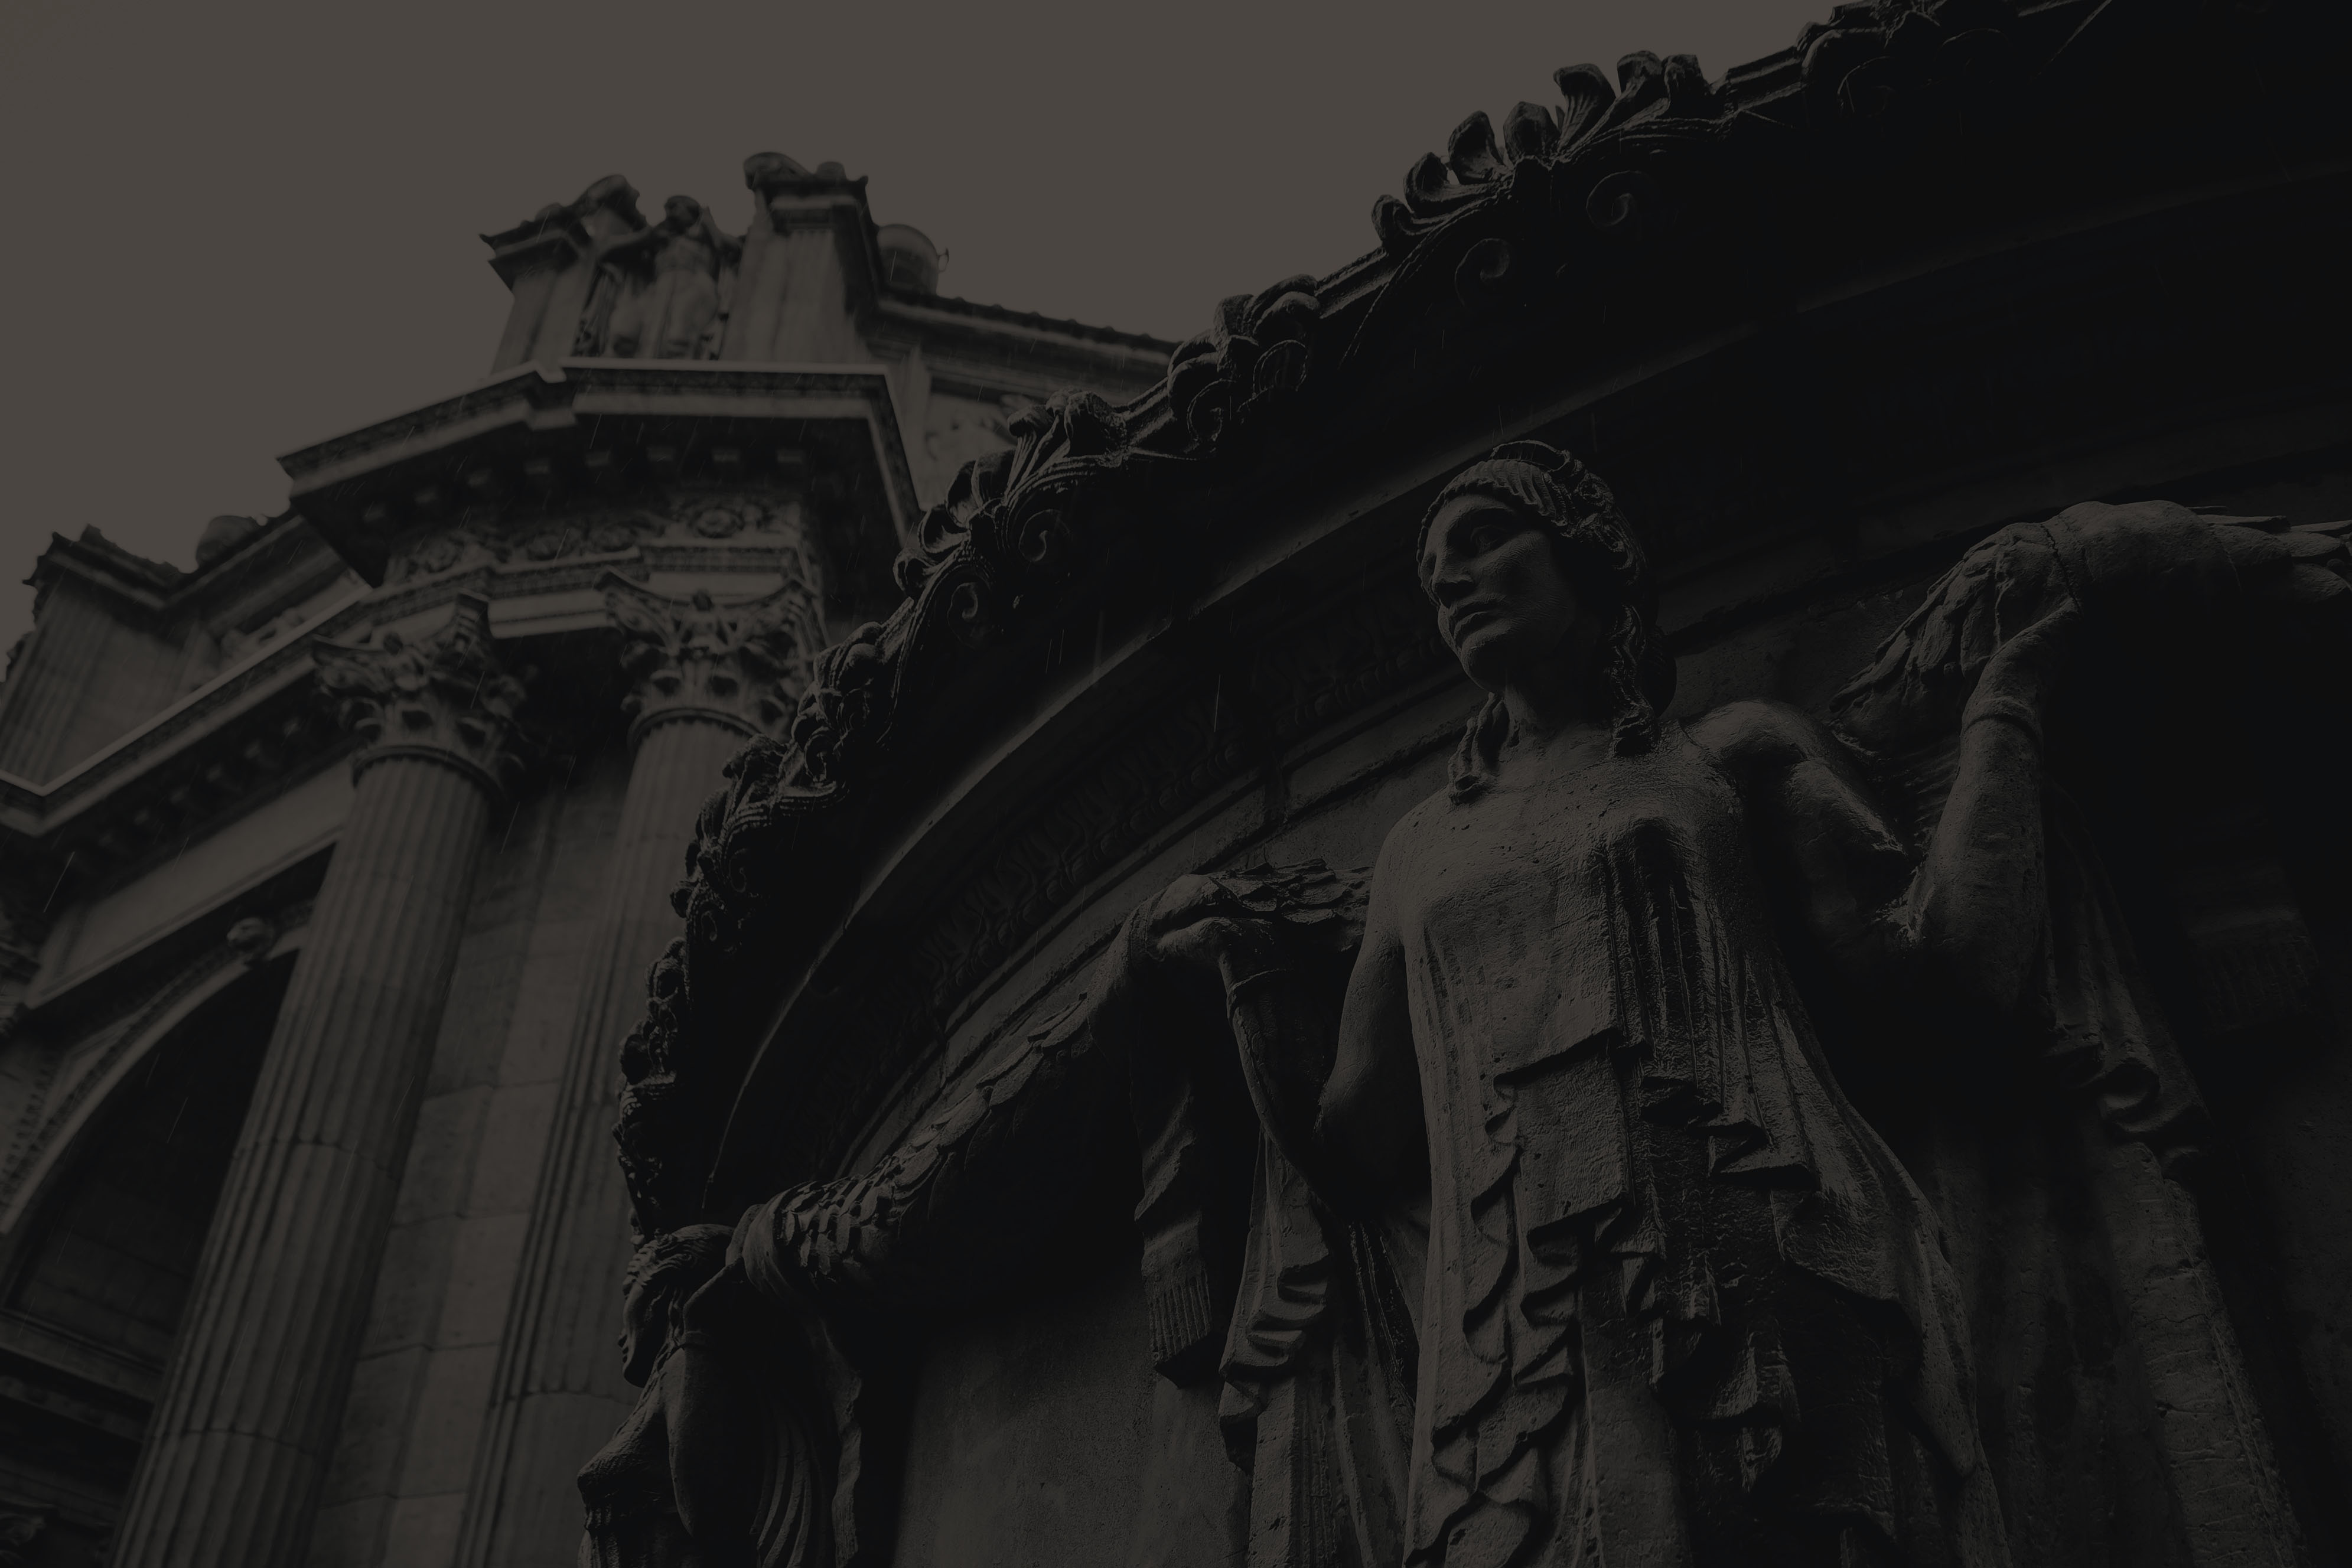
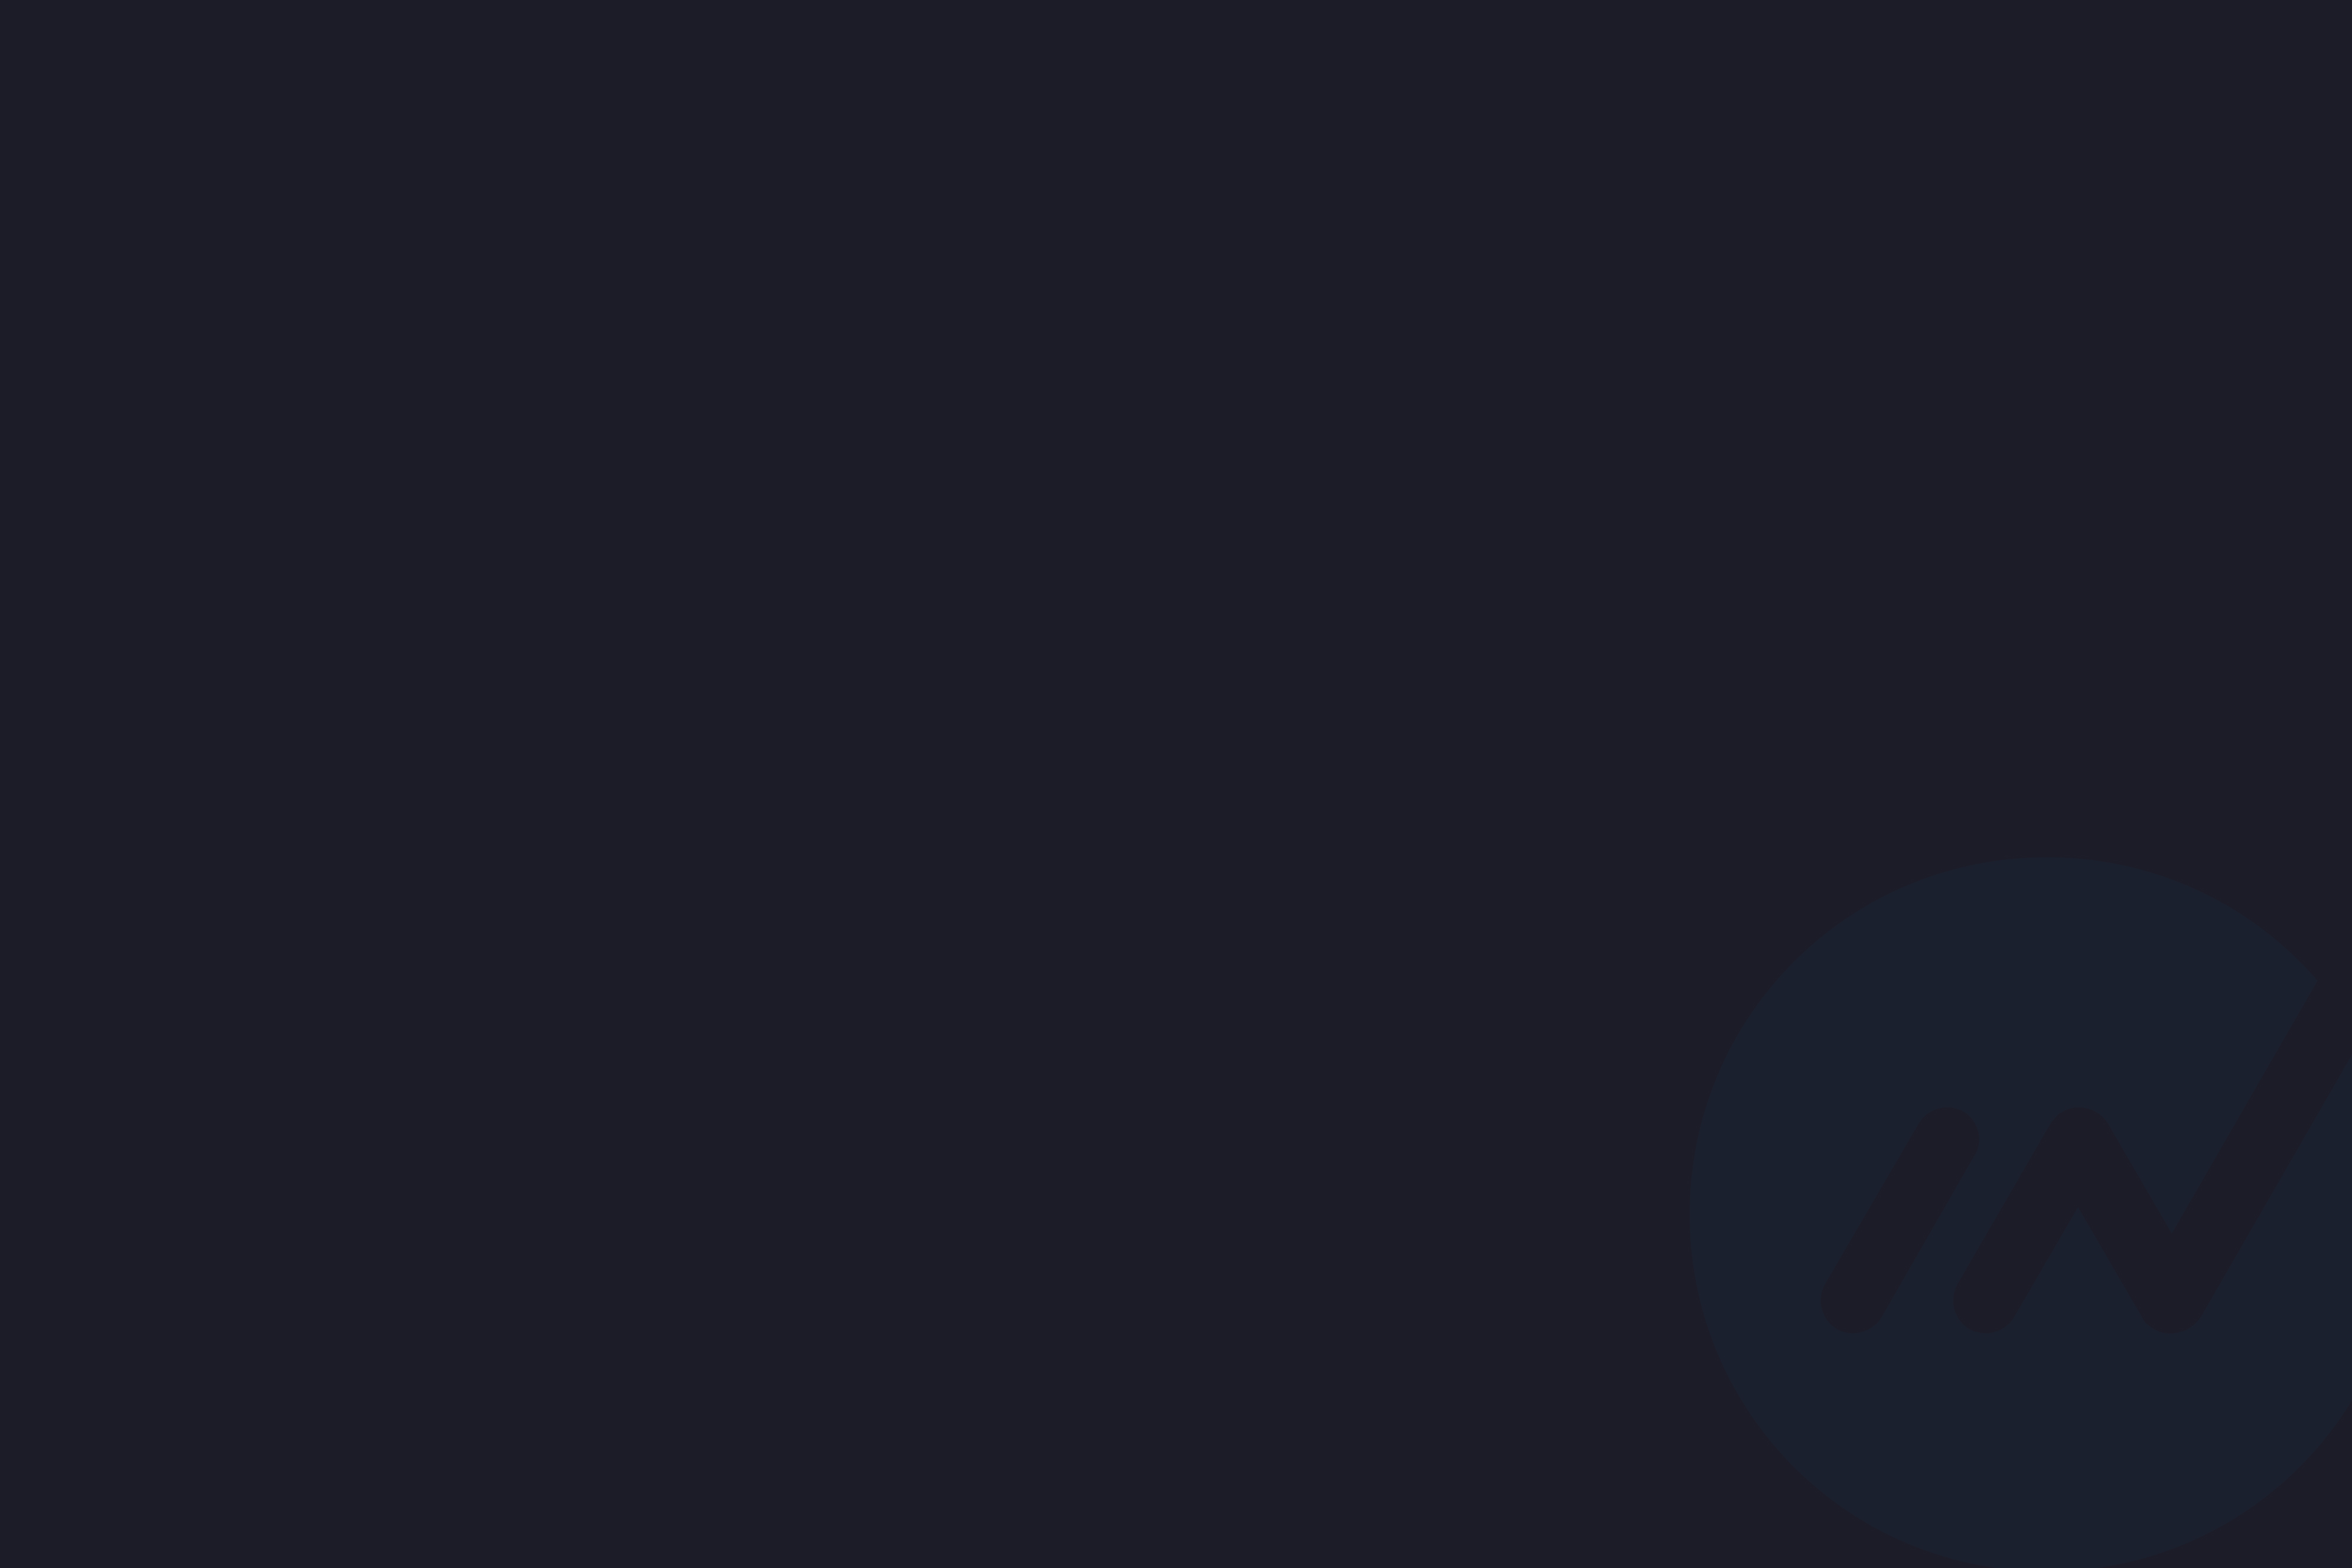
Edit Example Address and fix stake time in text

diff --git a/src/qt/signverifymessagedialog.cpp b/src/qt/signverifymessagedialog.cpp
@@ -24,10 +24,10 @@ SignVerifyMessageDialog::SignVerifyMessageDialog(QWidget *parent) :
 
 #if (QT_VERSION >= 0x040700)
     /* Do not move this to the XML file, Qt before 4.7 will choke on it */
-    ui->addressIn_SM->setPlaceholderText(tr("Enter an Innova address (e.g. DyvGBZBowrppUwwNUo1GCRDTibzJi7g2M)"));
+    ui->addressIn_SM->setPlaceholderText(tr("Enter an Innova address (e.g. iZ4HRXTsLkp2Rty5RUHMLc6d5qVxVGifKJ)"));
     ui->signatureOut_SM->setPlaceholderText(tr("Click \"Sign Message\" to generate signature"));
 
-    ui->addressIn_VM->setPlaceholderText(tr("Enter an Innova address (e.g. DyvGBZBowrppUwwNUo1GCRDTibzJi7g2M)"));
+    ui->addressIn_VM->setPlaceholderText(tr("Enter an Innova address (e.g. iZ4HRXTsLkp2Rty5RUHMLc6d5qVxVGifKJ)"));
     ui->signatureIn_VM->setPlaceholderText(tr("Enter Innova signature"));
 #endif
 

diff --git a/src/qt/bitcoingui.cpp b/src/qt/bitcoingui.cpp
@@ -1535,7 +1535,7 @@ void BitcoinGUI::updateStakingIcon()
         else if (IsInitialBlockDownload())
             labelStakingIcon->setToolTip(tr("Not staking because wallet is syncing"));
         else if (!nWeight)
-            labelStakingIcon->setToolTip(tr("Not staking because you don't have mature coins<br>Coins take 8 hours to mature."));
+            labelStakingIcon->setToolTip(tr("Not staking because you don't have mature coins<br>Coins take 10 hours to mature."));
         else
             labelStakingIcon->setToolTip(tr("Not staking"));
     }

diff --git a/src/qt/sendcoinsdialog.cpp b/src/qt/sendcoinsdialog.cpp
@@ -38,7 +38,7 @@ SendCoinsDialog::SendCoinsDialog(QWidget *parent) :
 
 #if QT_VERSION >= 0x040700
     /* Do not move this to the XML file, Qt before 4.7 will choke on it */
-    ui->lineEditCoinControlChange->setPlaceholderText(tr("Enter a Innova address (e.g. DyvGBZBowrppUwwNUo1GCRDTibzJi7g2M)"));
+    ui->lineEditCoinControlChange->setPlaceholderText(tr("Enter a Innova address (e.g. iZ4HRXTsLkp2Rty5RUHMLc6d5qVxVGifKJ)"));
 #endif
 
     addEntry();

diff --git a/src/qt/sendcoinsentry.cpp b/src/qt/sendcoinsentry.cpp
@@ -24,7 +24,7 @@ SendCoinsEntry::SendCoinsEntry(QWidget *parent) :
 #if QT_VERSION >= 0x040700
     /* Do not move this to the XML file, Qt before 4.7 will choke on it */
     ui->addAsLabel->setPlaceholderText(tr("Enter a label for this address to add it to your address book"));
-    ui->payTo->setPlaceholderText(tr("Enter a Innova address (e.g. DyvGBZBowrppUwwNUo1GCRDTibzJi7g2M)"));
+    ui->payTo->setPlaceholderText(tr("Enter a Innova address (e.g. iZ4HRXTsLkp2Rty5RUHMLc6d5qVxVGifKJ)"));
     ui->narration->setPlaceholderText(tr("Enter a short note to send with payment (max 24 characters)"));
 #endif
     setFocusPolicy(Qt::TabFocus);

diff --git a/src/qt/sendmessagesdialog.cpp b/src/qt/sendmessagesdialog.cpp
@@ -34,7 +34,7 @@ SendMessagesDialog::SendMessagesDialog(Mode mode, Type type, QWidget *parent) :
 #if QT_VERSION >= 0x040700
      /* Do not move this to the XML file, Qt before 4.7 will choke on it */
     if(mode == SendMessagesDialog::Encrypted)
-        ui->addressFrom->setPlaceholderText(tr("Enter a Innova address (e.g. DyvGBZBowrppUwwNUo1GCRDTibzJi7g2M)"));
+        ui->addressFrom->setPlaceholderText(tr("Enter a Innova address (e.g. iZ4HRXTsLkp2Rty5RUHMLc6d5qVxVGifKJ)"));
  #endif
     addEntry();
 